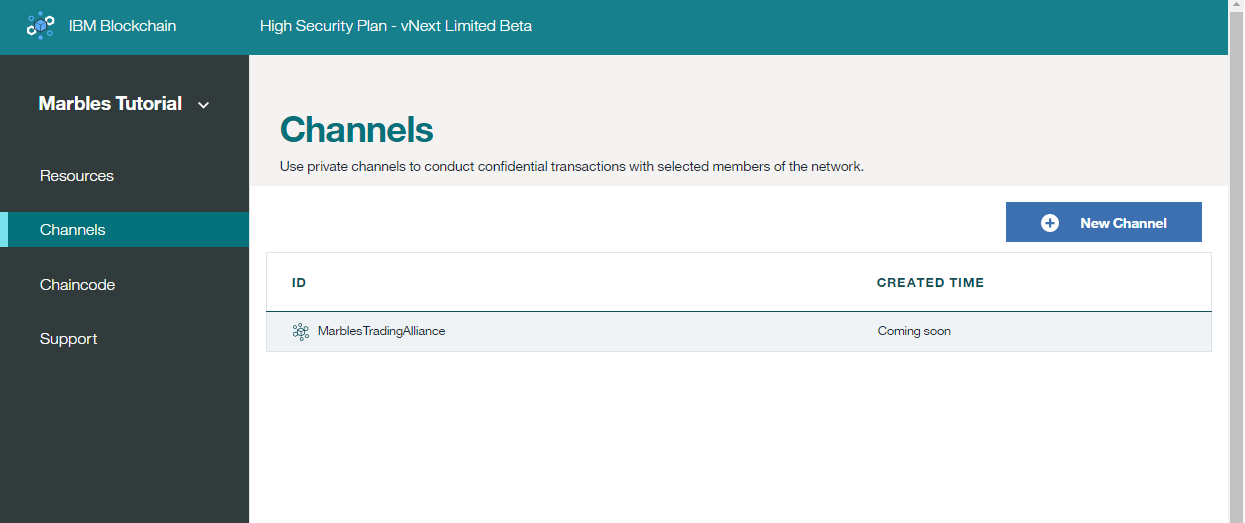
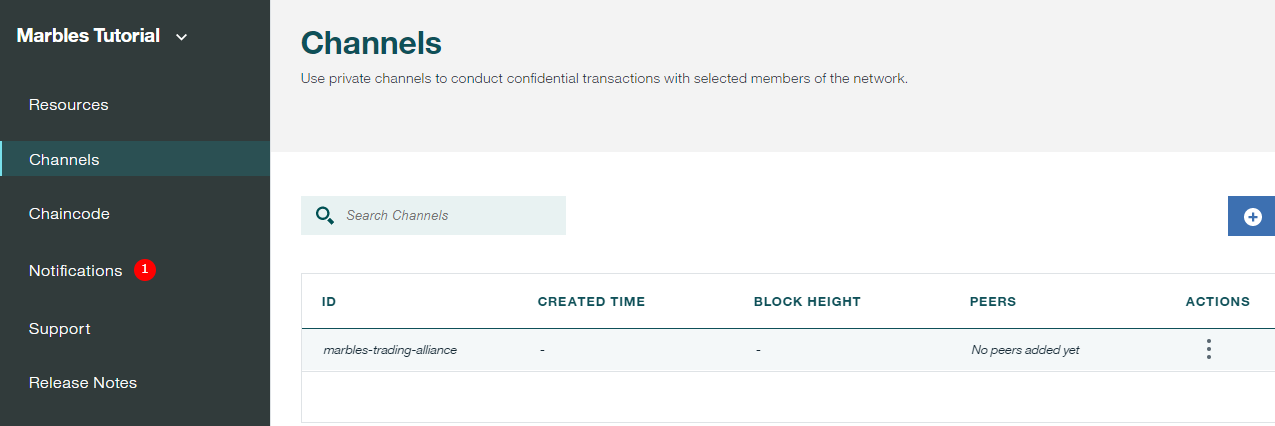
tweak docs for rc1 differeneces

diff --git a/README.md b/README.md
@@ -15,17 +15,21 @@ One for each major Hyperledger Fabric release.
 Pick a version of marbles that is compatible with your version of Fabric. 
 If you don't have any version of Fabric, then pick the marbles version marked **latest**! 
 
-- Marbles - Branch v3.0 **(Latest)** (You are viewing this branch!)
-	- Works with Hyperledger Fabric `v1.0`
+- Marbles - Branch v4.0 **(Latest)** (You are viewing this branch!)
+	- Works with Hyperledger Fabric `v1.0.0-rc1`
 	- Works with the IBM Blockchain Bluemix Service - Plan **HSBN vNext**
 
+- [Marbles - Branch v3.0](https://github.com/ibm-blockchain/marbles/tree/v3.0) 
+	- Works with Hyperledger Fabric `v1.0.0-alpha`
+	- No longer supported by the IBM Blockchain Bluemix service
+
 - [Marbles - Branch v2.0](https://github.com/ibm-blockchain/marbles/tree/v2.0)
-	- Works with Hyperledger Fabric `v0.6-developer-preview`
+	- Works with Hyperledger Fabric `v0.6.1-preview`
 	- Works with IBM Blockchain Bluemix Service - Plan **Starter** or **HSBN**
 
 - [Marbles - Branch v1.0](https://github.com/ibm-blockchain/marbles/tree/v1.0) **(Deprecated)**
-	- No longer supported by the IBM Blockchain Bluemix service
 	- Works with Hyperledger Fabric `v0.5-developer-preview`
+	- No longer supported by the IBM Blockchain Bluemix service
 
 ***
 
@@ -110,17 +114,20 @@ You will need to do this step even if you plan on hosting marbles in Bluemix.
 	git checkout v3.0
 	```
 
+- Great I'll meet you at step 2.
+
 <a name="getnetwork"></a>
 
 ### 2. Get a Network
 
-Now we need a blockchain network.
+Hello again. Now we need a blockchain network.
 
 **Choose 1 option below:**
 
 - **Option 1:** Create a network with the Bluemix IBM Blockchain Service - [instructions](./docs/use_bluemix_hyperledger.md)
 
--  **Option 2:** :lollipop: Use a locally hosted Hyperledger Fabric Network - [instructions](./docs/use_local_hyperledger.md)
+<strike>-  **Option 2:** :lollipop: Use a locally hosted Hyperledger Fabric Network - [instructions](./docs/use_local_hyperledger.md)</strike>
+- **Update:** Option 2 needs work with Fabric RC1.  Hang tight.
 
 <a name="installchaincode"></a>
 
@@ -133,7 +140,8 @@ Choose the **only** option that is relevant for your setup:
 
 - **Option 1:** Install and instantiate chaincode with your IBM Blockchain Service - [instructions](./docs/install_chaincode.md)
 
-- **Option 2:** :lollipop: Install and instantiate chaincode with the SDK locally - [instructions](./docs/install_chaincode_locally.md)
+<strike>- **Option 2:** :lollipop: Install and instantiate chaincode with the SDK locally - [instructions](./docs/install_chaincode_locally.md)</strike>
+- **Update:** Option 2 needs work with Fabric RC1.  Hang tight.
 
 <a name="hostmarbles"></a>
 
@@ -162,7 +170,7 @@ Last but not least we need marbles running somewhere.
 
 1. Fill out all the fields, then click the "CREATE" button
 1. After a few seconds your new marble should have appeared.
-    - If not refresh the page
+    - If not refresh the page by hitting the refresh button in your browser, or by pressing F5
 1. Next let’s trade a marble.  Drag and drop a marble from one owner to another. Only trade it to owners within "United Marbles" if you have multiple marble companies. It should temporary disappear and then redraw the marble within its new owner. That means it worked!
     - If not refresh the page
 1. Now let’s delete a marble by dragging and dropping it into the trash can. It should disappear after a few seconds.
@@ -172,6 +180,12 @@ Last but not least we need marbles running somewhere.
 1. Refresh the page to double check that your actions "stuck".
 1. Use the search box to filter on marble owners or marble company names.  This is helpful when there are many companies/owners.
     - The pin icon will prevent that user from being filtered out by the search box.
+1. Now lets turn on the special walk through. Click the "Settings" button near the top of the page.
+	- A dialog box will open.
+	- Click the "Enabled" button to enabled Story Mode
+	- Click the "x" in the top right to close the menu.
+	- Now pick another marble and drag it to another user.  You should see a breakdown of the transaction process. Hopefully it gives you a better idea of how Fabric works.
+	- Remember you can disable story mode when it becomes frustratingly repetitive and you are a cold husk of your former self.
 1. Congratulations you have a working marbles application :)!
 
 
@@ -563,6 +577,11 @@ Now you know the whole flow.
 The admin moved the marble, JS detected the drag/drop, client sends a websocket message, marbles receives the websocket message, sdk builds/sends a proposal, peer endorses the proposal, sdk sends the proposal for ordering, the orderer orders and sends a block to peer, our peer commits the block, marbles node code gets new marble status periodically, sends marble websocket message to client, and finally the client redraws the marble in its new home.
 
 That’s it! Hope you had fun transferring marbles. 
+
+## Marbles Tips
+There are few comments about marbles that don't fit neatly into the instructions above. 
+Here is an assortment of marbles tips and instructions. 
+- coming soon
 
 # License
 [Apache 2.0](LICENSE)

diff --git a/docs/use_bluemix_hyperledger.md b/docs/use_bluemix_hyperledger.md
@@ -44,24 +44,52 @@
 ![](/doc_images/4-resources-no-peers.PNG)
 
 - Congrats, you now have a blockchain network. You are currently eyeballing the list of nodes for you network. 
-- You will need nodes called "Peers" to run marbles chaincode.  Since we started this network we do not have any peers yet. Click the "Add Peer" button. 
+- You will need nodes called "Peers" to run marbles chaincode.  You may have peers already.  It depends on if you selected some during the create wizard. If not click the "Add Peer" button and create 1 peer of any size. 
 
 ![](/doc_images/5-after-added-peer.PNG)
 
 - When you have at least one peer, we can move on to making a channel. 
+    - Creating a channel is a bit of a process, so bare with me!
     - A channel is used to isolate our blockchain ledger from others on the network.  (Later we will have the oppturnity to invite members of our network to our channel) Members on the same channel will be able to vaildate eachothers transactions. For now we just want to make a channel for ourself.
-- Click the "Channels" link on the left.
+- Click the "Channels" link on the left navigation menu.
 - Next click the create "New Channel" button in the top right
 
-![](/doc_images/7-create-channel.PNG)
+![](/doc_images/7a-create-channel.PNG)
 
-- Give your channel a name
-- We will want to add ourself to this channel, so select yourself from the channel drop down and then click "Add Member"
-- Next click the "Create" button
+- Give your channel a name and description if you want
+    - Due to the crazy rules it may take a few minuets to pick a good name.  Stick to lowercase letters, numbers, dashes, and dots.
+- Then click "Next"
+
+![](/doc_images/7b-create-channel.PNG)
+
+- We need ourself added as an "Admin" so find your email addres and check the Admin box next to it.
+- If we wanted to invite others to the channel, we could add them from the drop down and select their roles. For now lets only have ourself on this channel. 
+- Then click the "Next" button
+
+![](/doc_images/7c-create-channel.PNG)
+
+- The update policy decides what it takes to make changes to the channel. In this case how many admins should it take. Since we only have ourself on the channel, the only value that makes sense is 1. Use the dropdown to set this to 1.
+- Then click the "Submit Request" button
+
+![](/doc_images/7d-create-channel.PNG)
+
+- OK. So the request is made, but we still have to sign it and submit it.
+- In the "Notifications" tab look for a pending request with your channel name on it.
+- Open the request with the Actions column by clicking "View Details"
+    - You could review it by expanding each section, but since we made it we know whats inside
+- Sign the request by clicking "Accept"
+- Aftering clicking accept the menu will close itself
+- Next submit the request with the same "Actions" column, but this time click "Submit Channel Request"
 
 ![](/doc_images/8-created-channel.PNG)
 
-- If all went well you should see the channel name listed after the panel refreshes.
+- Now browse to the "Channels" page in the left navigation menu
+- If all went well you should see the channel name listed after the panel refreshes
+- But we are not quite done... Click the dots in the action columna and select the "Join Peer" option
+- A menu will appear, check all of your peers and then click the "Add Selected" button
+- If the stars align the peer will be joined to your channel and everything is done
+    - You can tell it was successful if the date created and block height have dates and a number, instead of a '-'
+    - If you don't see a date, refresh the page or repeat the join
 
 ### Finish Up
 Congrats! The network is all setup. If you want more detail on the IBM Blockchain service, available plans, or a detailed overview of the IBM Blockchain Dashboard, jump over [here](https://console.ng.bluemix.net/docs/services/blockchain/index.html?pos=2). If not let’s continue the setup. 

diff --git a/docs/env_setup.md b/docs/env_setup.md
@@ -47,7 +47,9 @@ Next verify you can build GoLang code with the [hello world](https://golang.org/
 
 ## 3. Node.js
 
-Download and install the latest Node.js LTS version.
+Download and install the latest Node.js LTS version. 
+It should be version 6+. 
+**Marbles will not work with node.js v7 or v8** 
 
 - [Node.js Download Page](https://nodejs.org/en/download/)
 
@@ -71,13 +73,14 @@ Therefore in order to compile chaincode locally you will need to have the fabric
 
 **Choose 1 option below:**
 
-- **Option 1:** :lollipop: I don't want to modify chaincode - **If you only want to run marbles cc as is, you can skip this step completely.** Head back to the [tutorial](../README.md#downloadmarbles).
+- **Option 1:** :lollipop: This option is for those that do not want to modify chaincode.  You will be running marbles as is. 
+	- There are no steps, you are already done! Head back to the [tutorial](../README.md#downloadmarbles).
 
-- **Option 2:** I want to modify chaincode and use a local Fabric network
+- **Option 2:**  This option is for those that want to modify chaincode and use a local Fabric network
 	- You are going to use the [master branch of the Hyperledger fabric](https://gerrit.hyperledger.org/r/gitweb?p=fabric.git;a=summary). 
 	- Remember this hash `14055d7` and go to the `Continue the Fabric Install Instructions` section below. You will enter the hash there.
 
-- **Option 3:** I want to modify chaincode and use the Blockchain Service for my network
+- **Option 3:** Choose this option if you want to modify chaincode and use the Blockchain Service for my network
 	- You are most likely going to need to use the [v1.0.0-preview Hyperledger fabric](https://github.com/hyperledger/fabric/tree/v1.0.0-preview) version.
 	If you have a network, then the exact Fabric version can be found in the Release Notes section of your network's UI. 
 	![](/doc_images/marbles-env.PNG)
